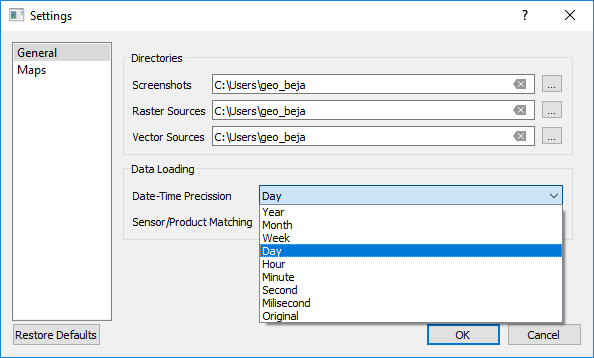
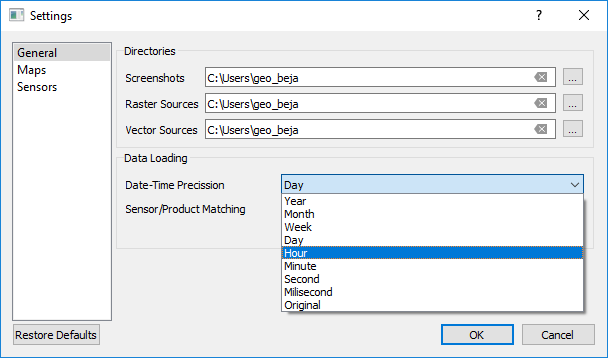
updated docs

diff --git a/doc/source/changelog_visual.rst b/doc/source/changelog_visual.rst
@@ -10,6 +10,8 @@ Version 1.10
 
   .. figure:: img/settings_sensor_matching.png
 
+* settings dialog allows to change the names of known sensors / image product specifications
+
 * fixed copying of layer styles to maps of same sensor and map view type
 * improved speed of mapping and layer buffering
 * failed image sources are logged in teh EO Time Series Viewer log panel
